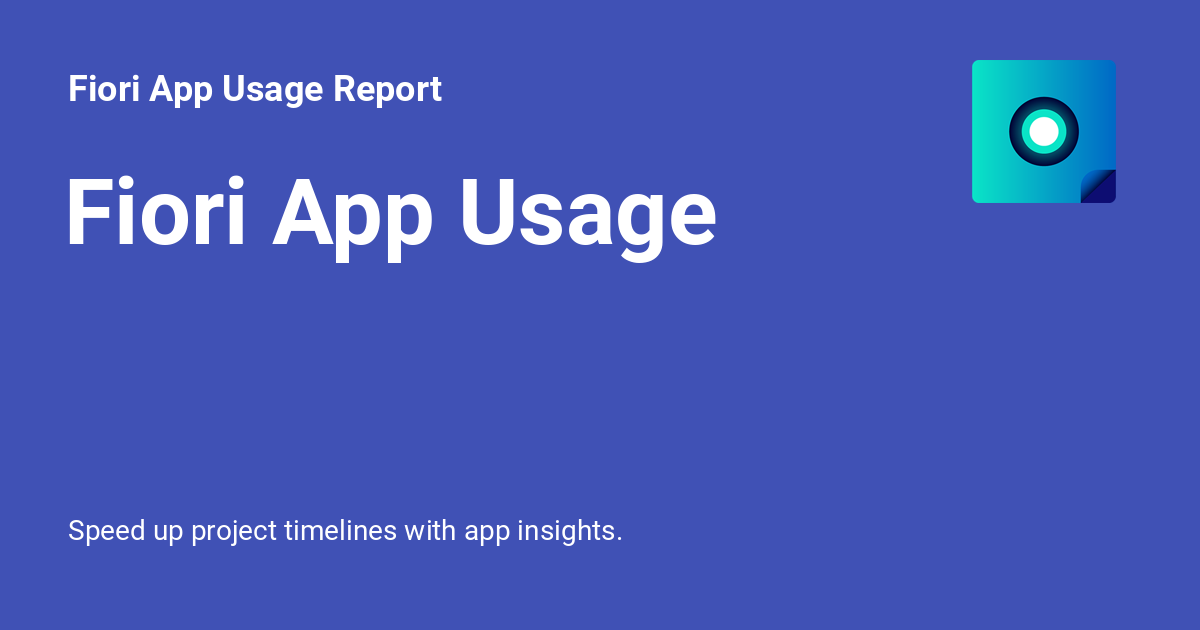
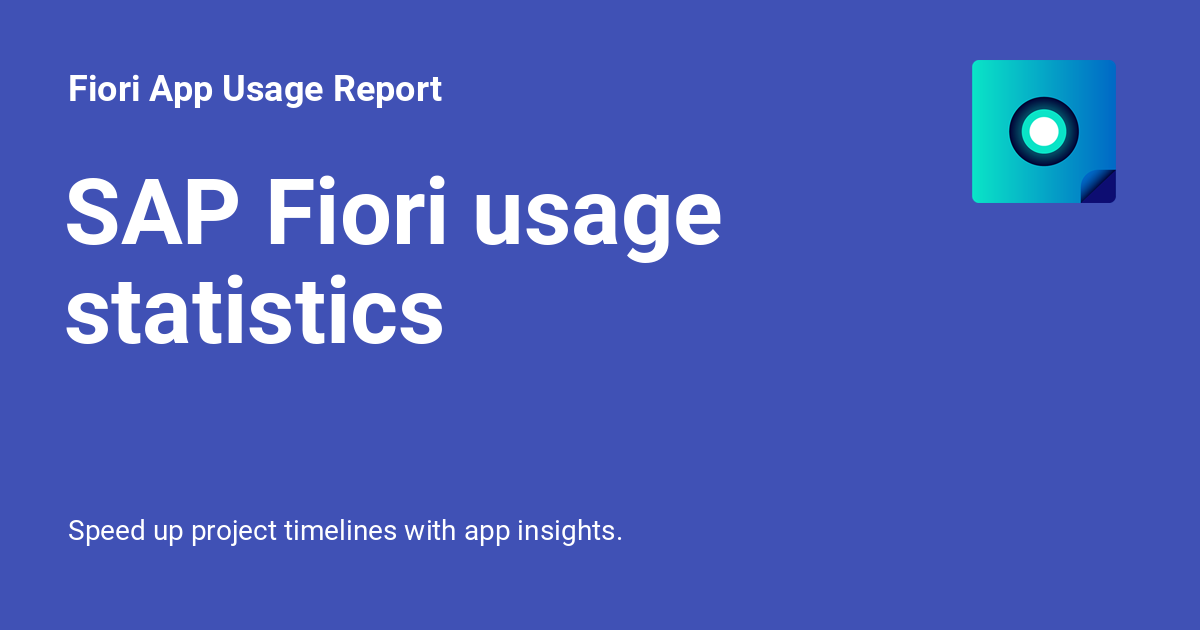
Deployed f2bd65a with MkDocs version: 1.5.3

Changed region(s): [[0.0308, 0.2714, 0.6167, 0.5429]]

diff --git a/2020/FPS01/info/index.html b/2020/FPS01/info/index.html
@@ -469,7 +469,7 @@
 
             <td style="vertical-align:top; color:#000000; border:1px solid #DCDCDC; padding: 5px"><i>MkDocsConfig</i></td>
 
-            <td style="vertical-align:top; color:#000000; border:1px solid #DCDCDC; padding: 5px">{'config_file_path': 'D:\\vs\\fau-help\\mkdocs.yml', 'site_name': 'Fiori App Usage Report', 'nav': [{'Learn more': '2020/learn-more.md'}, {'Installation': '2020/FPS01/inst.md'}, {'FAQ': '2020/faq.md'}, {'Case studies': '2020/cases.md'}, {'Impressum': '2020/impressum.md'}], 'pages': None, 'exclude_docs': None, 'not_in_nav': None, 'site_url': 'https://help.fioriappsusage.org/', 'site_description': None, 'site_author': None, 'theme': Theme(name='material', dirs=['D:\\vs\\fau-help\\overrides', 'D:\\python\\Lib\\site-packages\\material\\templates', 'D:\\python\\Lib\\site-packages\\mkdocs\\templates'], static_templates={'404.html', 'sitemap.xml'}, name='material', locale=Locale('en'), language='en', direction=None, features=[], font={'text': 'Roboto', 'code': 'Roboto Mono'}, icon=None, favicon='assets/images/favicon.ico', logo='assets/images/logo.png'), 'docs_dir': 'D:\\vs\\fau-help\\docs', 'site_dir': 'D:\\vs\\fau-help\\site', 'copyright': None, 'google_analytics': None, 'dev_addr': _IpAddressValue(host='127.0.0.1', port=8000), 'use_directory_urls': True, 'repo_url': None, 'repo_name': None, 'edit_uri_template': None, 'edit_uri': None, 'extra_css': ['stylesheets/extra.css'], 'extra_javascript': [], 'extra_templates': [], 'markdown_extensions': ['toc', 'tables', 'fenced_code', 'admonition', 'attr_list'], 'mdx_configs': {}, 'strict': False, 'remote_branch': 'gh-pages', 'remote_name': 'origin', 'extra': {'analytics': {'provider': 'google', 'property': 'G-362773498'}, 'social': [{'icon': 'fontawesome/brands/linkedin', 'link': 'https://www.linkedin.com/showcase/apps-usage-for-sap-fiori-launchpad'}, {'icon': 'fontawesome/brands/twitter', 'link': 'http://twitter.com/fioritracker'}, {'icon': 'fontawesome/brands/discord', 'link': 'https://discord.gg/xGNzmej4KE'}], 'prod': {'fa': {'name': 'Fiori App Usage', 'main': '2020', 'latestrel': 'FPS01', 'cen': 'X', 'man': '', 'R2020FPS01': {'compatibleCoreRel': 'SPS03', 'compatibleCoreLink': 'https://help.fioritracker.org/V2020/core/SPS03/main/'}}}}, 'plugins': {'material/social': <material.plugins.social.plugin.SocialPlugin object at 0x00000180845CDE20>, 'macros': <mkdocs_macros.plugin.MacrosPlugin object at 0x000001808453D610>, 'material/search': <material.plugins.search.plugin.SearchPlugin object at 0x000001808506EDB0>}, 'hooks': {}, 'watch': [], 'validation': {'nav': {'omitted_files': 20, 'not_found': 30, 'absolute_links': 20}, 'links': {'not_found': 30, 'absolute_links': 20, 'unrecognized_links': 20}}}</td>
+            <td style="vertical-align:top; color:#000000; border:1px solid #DCDCDC; padding: 5px">{'config_file_path': 'D:\\vs\\fau-help\\mkdocs.yml', 'site_name': 'Fiori App Usage Report', 'nav': [{'Learn more': '2020/learn-more.md'}, {'Installation': '2020/FPS01/inst.md'}, {'FAQ': '2020/faq.md'}, {'Case studies': '2020/cases.md'}, {'Impressum': '2020/impressum.md'}], 'pages': None, 'exclude_docs': None, 'not_in_nav': None, 'site_url': 'https://help.fioriappsusage.org/', 'site_description': None, 'site_author': None, 'theme': Theme(name='material', dirs=['D:\\vs\\fau-help\\overrides', 'D:\\python\\Lib\\site-packages\\material\\templates', 'D:\\python\\Lib\\site-packages\\mkdocs\\templates'], static_templates={'sitemap.xml', '404.html'}, name='material', locale=Locale('en'), language='en', direction=None, features=[], font={'text': 'Roboto', 'code': 'Roboto Mono'}, icon=None, favicon='assets/images/favicon.ico', logo='assets/images/logo.png'), 'docs_dir': 'D:\\vs\\fau-help\\docs', 'site_dir': 'D:\\vs\\fau-help\\site', 'copyright': None, 'google_analytics': None, 'dev_addr': _IpAddressValue(host='127.0.0.1', port=8000), 'use_directory_urls': True, 'repo_url': None, 'repo_name': None, 'edit_uri_template': None, 'edit_uri': None, 'extra_css': ['stylesheets/extra.css'], 'extra_javascript': [], 'extra_templates': [], 'markdown_extensions': ['toc', 'tables', 'fenced_code', 'admonition', 'attr_list'], 'mdx_configs': {}, 'strict': False, 'remote_branch': 'gh-pages', 'remote_name': 'origin', 'extra': {'analytics': {'provider': 'google', 'property': 'G-362773498'}, 'social': [{'icon': 'fontawesome/brands/linkedin', 'link': 'https://www.linkedin.com/showcase/apps-usage-for-sap-fiori-launchpad'}, {'icon': 'fontawesome/brands/twitter', 'link': 'http://twitter.com/fioritracker'}, {'icon': 'fontawesome/brands/discord', 'link': 'https://discord.gg/xGNzmej4KE'}], 'prod': {'fa': {'name': 'Fiori App Usage', 'main': '2020', 'latestrel': 'FPS01', 'cen': 'X', 'man': '', 'R2020FPS01': {'compatibleCoreRel': 'SPS03', 'compatibleCoreLink': 'https://help.fioritracker.org/V2020/core/SPS03/main/'}}}}, 'plugins': {'material/social': <material.plugins.social.plugin.SocialPlugin object at 0x000001B100BBDD00>, 'macros': <mkdocs_macros.plugin.MacrosPlugin object at 0x000001B100E10DD0>, 'material/search': <material.plugins.search.plugin.SearchPlugin object at 0x000001B10107AF00>}, 'hooks': {}, 'watch': [], 'validation': {'nav': {'omitted_files': 20, 'not_found': 30, 'absolute_links': 20}, 'links': {'not_found': 30, 'absolute_links': 20, 'unrecognized_links': 20}}}</td>
 
         </tr>
 
@@ -499,7 +499,7 @@
 
             <td style="vertical-align:top; color:#000000; border:1px solid #DCDCDC; padding: 5px"><i>dict</i></td>
 
-            <td style="vertical-align:top; color:#000000; border:1px solid #DCDCDC; padding: 5px">status = True, <b>date</b> [<i>datetime</i>], short_commit = '58269ca', commit = '58269ca244418476d231d58b2677aff053bed168', tag = '', short_tag = '', author = 'gmal', author_email = 'grzegorz.malewski@nype.pl', committer = 'gmal', committer_email = 'grzegorz.malewski@nype.pl', date_ISO = 'Sat Mar 23 17:46:56 2024 +0100', message = 'upd', raw = 'commit 58269ca244418476d231d58b2677aff053bed168\nAuthor: gmal <grzegorz.malewski@nype.pl>\nDate:   Sat Mar 23 17:46:56 2024 +0100\n\n    upd', root_dir = 'D:/vs/fau-help'</td>
+            <td style="vertical-align:top; color:#000000; border:1px solid #DCDCDC; padding: 5px">status = True, <b>date</b> [<i>datetime</i>], short_commit = 'f2bd65a', commit = 'f2bd65a22056f150ff876f5e47a040a28e289628', tag = '', short_tag = '', author = 'gmal', author_email = 'grzegorz.malewski@nype.pl', committer = 'gmal', committer_email = 'grzegorz.malewski@nype.pl', date_ISO = 'Sat Mar 23 19:12:48 2024 +0100', message = 'upd', raw = 'commit f2bd65a22056f150ff876f5e47a040a28e289628\nAuthor: gmal <grzegorz.malewski@nype.pl>\nDate:   Sat Mar 23 19:12:48 2024 +0100\n\n    upd', root_dir = 'D:/vs/fau-help'</td>
 
         </tr>
 
@@ -569,7 +569,7 @@
 
             <td style="vertical-align:top; color:#000000; border:1px solid #DCDCDC; padding: 5px"><i>Navigation</i></td>
 
-            <td style="vertical-align:top; color:#000000; border:1px solid #DCDCDC; padding: 5px"><mkdocs.structure.nav.Navigation object at 0x0000018081F2C2C0></td>
+            <td style="vertical-align:top; color:#000000; border:1px solid #DCDCDC; padding: 5px"><mkdocs.structure.nav.Navigation object at 0x000001B1013F31D0></td>
 
         </tr>
 
@@ -579,7 +579,7 @@
 
             <td style="vertical-align:top; color:#000000; border:1px solid #DCDCDC; padding: 5px"><i>Files</i></td>
 
-            <td style="vertical-align:top; color:#000000; border:1px solid #DCDCDC; padding: 5px"><mkdocs.structure.files.Files object at 0x0000018083ED7650></td>
+            <td style="vertical-align:top; color:#000000; border:1px solid #DCDCDC; padding: 5px"><mkdocs.structure.files.Files object at 0x000001B100047260></td>
 
         </tr>
 
@@ -704,7 +704,7 @@
 
             <td style="vertical-align:top; color:#000000; border:1px solid #DCDCDC; padding: 5px"><i>Theme</i></td>
 
-            <td style="vertical-align:top; color:#000000; border:1px solid #DCDCDC; padding: 5px">Theme(name='material', dirs=['D:\\vs\\fau-help\\overrides', 'D:\\python\\Lib\\site-packages\\material\\templates', 'D:\\python\\Lib\\site-packages\\mkdocs\\templates'], static_templates={'404.html', 'sitemap.xml'}, name='material', locale=Locale('en'), language='en', direction=None, features=[], font={'text': 'Roboto', 'code': 'Roboto Mono'}, icon=None, favicon='assets/images/favicon.ico', logo='assets/images/logo.png')</td>
+            <td style="vertical-align:top; color:#000000; border:1px solid #DCDCDC; padding: 5px">Theme(name='material', dirs=['D:\\vs\\fau-help\\overrides', 'D:\\python\\Lib\\site-packages\\material\\templates', 'D:\\python\\Lib\\site-packages\\mkdocs\\templates'], static_templates={'sitemap.xml', '404.html'}, name='material', locale=Locale('en'), language='en', direction=None, features=[], font={'text': 'Roboto', 'code': 'Roboto Mono'}, icon=None, favicon='assets/images/favicon.ico', logo='assets/images/logo.png')</td>
 
         </tr>
 
@@ -1023,7 +1023,7 @@ documentation project:</p>
 
             <td style="vertical-align:top; color:#000000; border:1px solid #DCDCDC; padding: 5px"><i>datetime</i></td>
 
-            <td style="vertical-align:top; color:#000000; border:1px solid #DCDCDC; padding: 5px">datetime.datetime(2024, 3, 23, 17, 46, 56, tzinfo=tzoffset(None, 3600))</td>
+            <td style="vertical-align:top; color:#000000; border:1px solid #DCDCDC; padding: 5px">datetime.datetime(2024, 3, 23, 19, 12, 48, tzinfo=tzoffset(None, 3600))</td>
 
         </tr>
 
@@ -1033,7 +1033,7 @@ documentation project:</p>
 
             <td style="vertical-align:top; color:#000000; border:1px solid #DCDCDC; padding: 5px"><i>str</i></td>
 
-            <td style="vertical-align:top; color:#000000; border:1px solid #DCDCDC; padding: 5px">'58269ca'</td>
+            <td style="vertical-align:top; color:#000000; border:1px solid #DCDCDC; padding: 5px">'f2bd65a'</td>
 
         </tr>
 
@@ -1043,7 +1043,7 @@ documentation project:</p>
 
             <td style="vertical-align:top; color:#000000; border:1px solid #DCDCDC; padding: 5px"><i>str</i></td>
 
-            <td style="vertical-align:top; color:#000000; border:1px solid #DCDCDC; padding: 5px">'58269ca244418476d231d58b2677aff053bed168'</td>
+            <td style="vertical-align:top; color:#000000; border:1px solid #DCDCDC; padding: 5px">'f2bd65a22056f150ff876f5e47a040a28e289628'</td>
 
         </tr>
 
@@ -1113,7 +1113,7 @@ documentation project:</p>
 
             <td style="vertical-align:top; color:#000000; border:1px solid #DCDCDC; padding: 5px"><i>str</i></td>
 
-            <td style="vertical-align:top; color:#000000; border:1px solid #DCDCDC; padding: 5px">'Sat Mar 23 17:46:56 2024 +0100'</td>
+            <td style="vertical-align:top; color:#000000; border:1px solid #DCDCDC; padding: 5px">'Sat Mar 23 19:12:48 2024 +0100'</td>
 
         </tr>
 
@@ -1133,7 +1133,7 @@ documentation project:</p>
 
             <td style="vertical-align:top; color:#000000; border:1px solid #DCDCDC; padding: 5px"><i>str</i></td>
 
-            <td style="vertical-align:top; color:#000000; border:1px solid #DCDCDC; padding: 5px">'commit 58269ca244418476d231d58b2677aff053bed168\nAuthor: gmal <grzegorz.malewski@nype.pl>\nDate:   Sat Mar 23 17:46:56 2024 +0100\n\n    upd'</td>
+            <td style="vertical-align:top; color:#000000; border:1px solid #DCDCDC; padding: 5px">'commit f2bd65a22056f150ff876f5e47a040a28e289628\nAuthor: gmal <grzegorz.malewski@nype.pl>\nDate:   Sat Mar 23 19:12:48 2024 +0100\n\n    upd'</td>
 
         </tr>
 

diff --git a/index.html b/index.html
@@ -20,7 +20,7 @@
     
     
       
-        <title>Fiori App Usage - Fiori App Usage Report</title>
+        <title>SAP Fiori usage statistics - Fiori App Usage Report</title>
       
     
     
@@ -64,7 +64,7 @@
       
         <meta  property="og:type"  content="website" >
       
-        <meta  property="og:title"  content="Fiori App Usage" >
+        <meta  property="og:title"  content="SAP Fiori usage statistics" >
       
         <meta  property="og:description"  content="Speed up project timelines with app insights." >
       
@@ -80,7 +80,7 @@
       
         <meta  name="twitter:card"  content="summary_large_image" >
       
-        <meta  name="twitter:title"  content="Fiori App Usage" >
+        <meta  name="twitter:title"  content="SAP Fiori usage statistics" >
       
         <meta  name="twitter:description"  content="Speed up project timelines with app insights." >
       
@@ -104,7 +104,7 @@
     <div data-md-component="skip">
       
         
-        <a href="#sap-fiori-app-usage-report" class="md-skip">
+        <a href="#log-apps-usage" class="md-skip">
           Skip to content
         </a>
       
@@ -139,7 +139,7 @@
         <div class="md-header__topic" data-md-component="header-topic">
           <span class="md-ellipsis">
             
-              Fiori App Usage
+              SAP Fiori usage statistics
             
           </span>
         </div>
@@ -357,7 +357,7 @@
                   
 
 
-<h1 id="sap-fiori-app-usage-report">SAP Fiori App Usage Report</h1>
+<h1 id="log-apps-usage">Log apps usage</h1>
 <p>Speed up project timelines with app insights.</p>
 <h1 id="addressed-challenges">Addressed challenges</h1>
 <ul>
